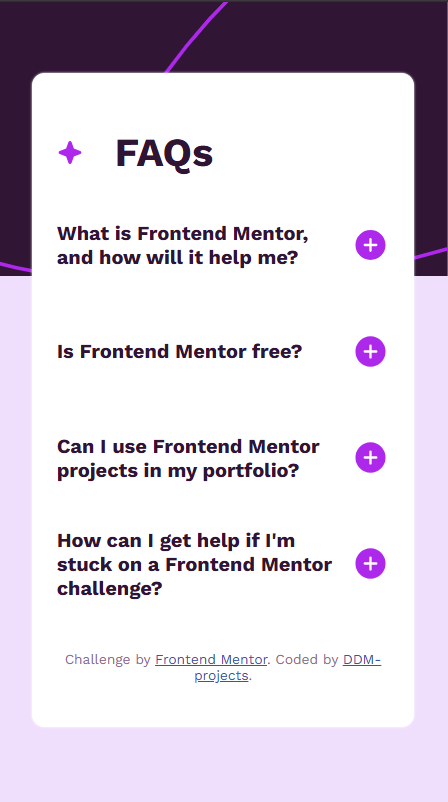
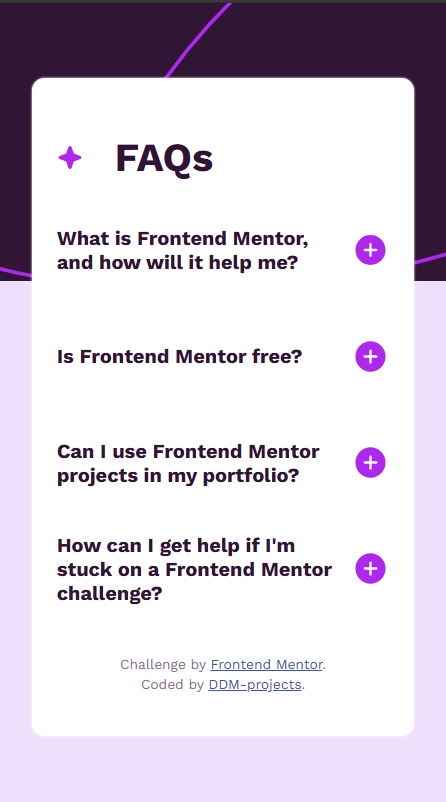
update attribution, styles and mobile view screenshot

diff --git a/style.css b/style.css
@@ -104,14 +104,25 @@ html {
 }
 
 .attribution {
+    display: flex;
+    flex-direction: column;
+    align-items: center;
+    min-width: fit-content;
+    gap: 3px;
     padding-top: 15px;
     padding-bottom: 15px;
     font-size: 1.1rem;
-    text-align: center;
 }
 
 .attribution__link {
     color: hsl(228, 45%, 44%);
+}
+
+@media (min-width: 540px) and (orientation: portrait) {
+    .attribution {
+        flex-direction: row;
+        justify-content: center;
+    }
 }
 
 @media (min-width: 768px) and (orientation: portrait) {
@@ -145,6 +156,11 @@ html {
     .questions-list__question-answer--active {
         height: 120px;
     }
+
+    .attribution {
+        flex-direction: row;
+        justify-content: center;
+    }
 }
 
 @media (min-width: 740px) and (orientation: landscape) {
@@ -177,5 +193,16 @@ html {
 
     .questions-list__question-answer--active {
         height: 120px;
+    }
+
+    .attribution {
+        flex-direction: column;
+        align-items: center;
+    }
+}
+
+@media (min-width: 1280px) and (orientation: landscape) {
+    .attribution {
+        flex-direction: row;
     }
 }

diff --git a/index.html b/index.html
@@ -85,12 +85,16 @@
 			</section>
 
 			<div class="attribution">
-				Challenge by <a href="https://www.frontendmentor.io?ref=challenge" class="attribution__link"
-					target="_blank" alt="Frontend-Mentor-link" rel="noopener noreferrer">Frontend Mentor</a>.
-				Coded by <a href="https://github.com/DDM-projects" class="attribution__link" target="_blank"
-					alt="DDM-projects-Github-Link" rel="noopener noreferrer">DDM-projects</a>.
+				<div class="attribution__challenge">
+					Challenge by <a href="https://www.frontendmentor.io?ref=challenge" class="attribution__link"
+						target="_blank" alt="Frontend-Mentor-link" rel="noopener noreferrer">Frontend Mentor</a>.</div>
+				<div class="attribution__coded">Coded by <a href="https://github.com/DDM-projects"
+						class="attribution__link" target="_blank" alt="DDM-projects-Github-Link"
+						rel="noopener noreferrer">DDM-projects</a>.
+				</div>
 			</div>
-		</main>
+	</div>
+	</main>
 	</div>
 	<script src="main.js"></script>
 </body>
